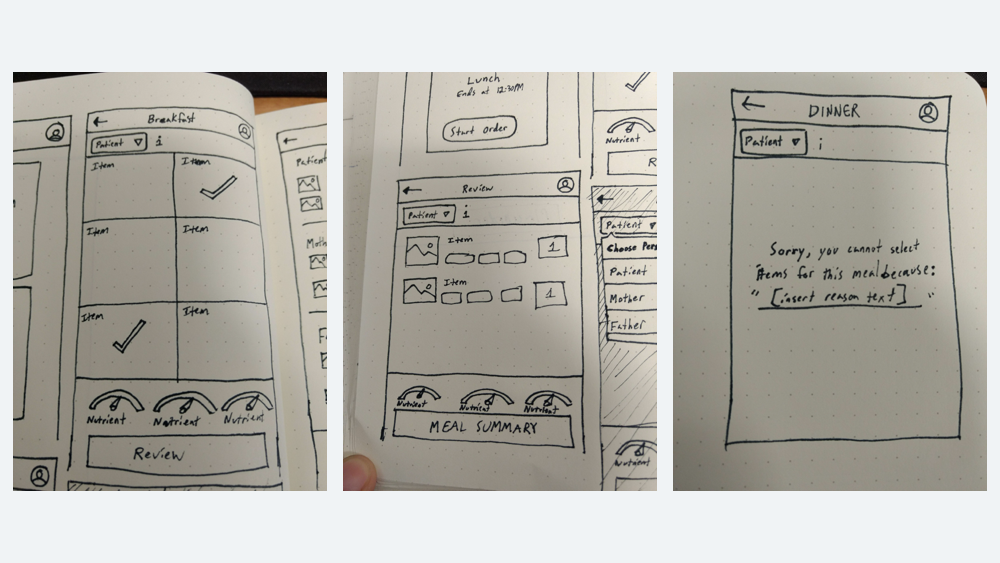
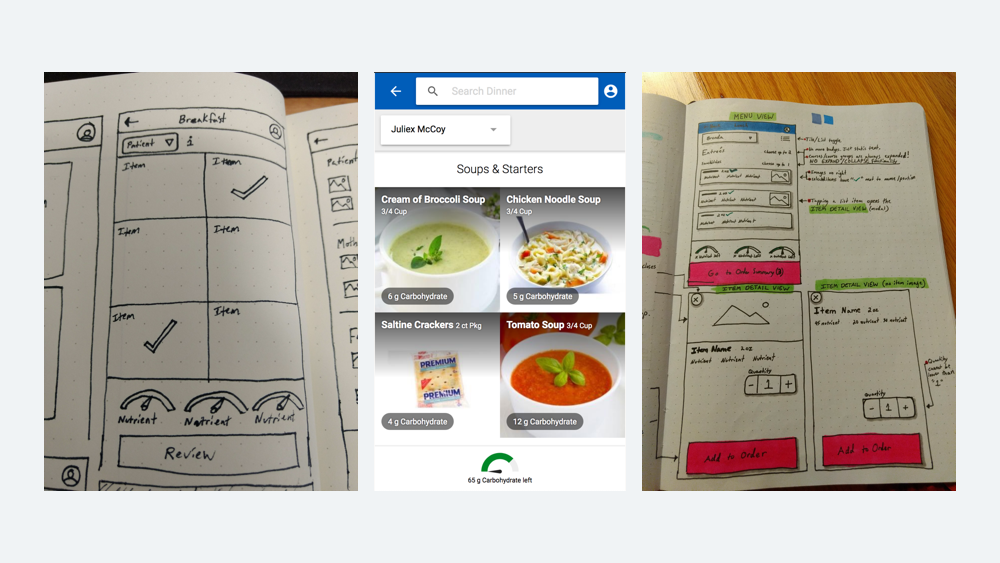
updates

diff --git a/content/posts/cbord-patient.md b/content/posts/cbord-patient.md
@@ -27,7 +27,7 @@ At its core, this was a simple food ordering app. But since we were designing fo
 It was incredibly important for us to design a food ordering experience that was both simple and empowering. Allowing patients to choose for themselves again was our goal. 
 
 ### Hospitals
-In addition to the patient, we needed to make sure the app served hospitals in a meaningful way. Prior, a few of our customers had hired third-party developers to create a front end for the APIs exposed by our backend systems. This had mixed results for patients in terms of ease-of-use and adoption and ultimately left many patients confused and frustrated by the technical jargon and obtuse wayfinding of these apps. Not to mention many of these apps were integrated with television systems which also exacerbated navigation frustration.
+In addition to the patient, we needed to make sure the app served hospitals in a meaningful way. In the past, some customers had hired third-party developers to create front ends for the APIs we exposed from the backend systems. This had mixed results for patients in terms of ease-of-use and adoption and ultimately left many patients confused and frustrated by the technical jargon and obtuse wayfinding of these apps. Not to mention many of these apps were integrated with television systems which also exacerbated navigation frustration.
 
 ### Team
 At the start of the project, the team consisted of a Business Analyst and myself as the UX Designer. Our analyst was also a healthcare dietician and so we worked closely on the user experience. 
@@ -56,29 +56,21 @@ We also needed a secure method of verifying the identity of the user in order to
 Our existing backend systems support the notion of patient guests. This gives hospitals the ability to process patient and guest meals. These are represented by "roles". Examples include: Father, Mother, Friend, and any other types defined by the hospital. For this reason we decided that the app would also need to support both patient and guest ordering. 
 ##
 ![Core Flow](/uploads/tca-core-flow.png)
-We revised the core ordering flow to accommodate this more complex requirement. 
+We revised the core ordering flow to accommodate this more complex requirement. The user is able to switch roles at any time during the ordering process via our "patron picker" mechanism. 
 
-## Menu Iteration
-We experimented with various ways of displaying food. Images of food were important for patients that either could not read or did not understand the language as they could rely on the imagery to make selections.
-##
-
-![Menu Wireframe](/uploads/tca-wireframe-1.png)
-##
-
+## The Menu
 ![Early Wireframes](/uploads/tca-early-wireframes.png)
-##
+By far, the menu view underwent the most iteration throughout the project. Our initial designs displayed a 2 column grid of food with prominent imagery. However, upon usability testing users wanted to see more options at a time. Also, if items did not have photos uploaded, the usability of the grid declined; items would appear as solid blocks of color. Subsequent designs leveraged a more standard list view that could handle missing food images more elegantly. Ultimately, we felt that food images were important for users for various reasons. Images could be a substitute for text for young children as well as for users unfamiliar with english.
+
 
 ![Finished Login](/uploads/tca-early-finished-1.png)
-##
+
 
 ![Meals](/uploads/tca-finished-2.png)
-##
 
 ![Menu](/uploads/tca-finished-3.png)
-##
 
 ![Menu that is over](/uploads/tca-finished-4.png)
-
 
 ## Usability Testing
 
